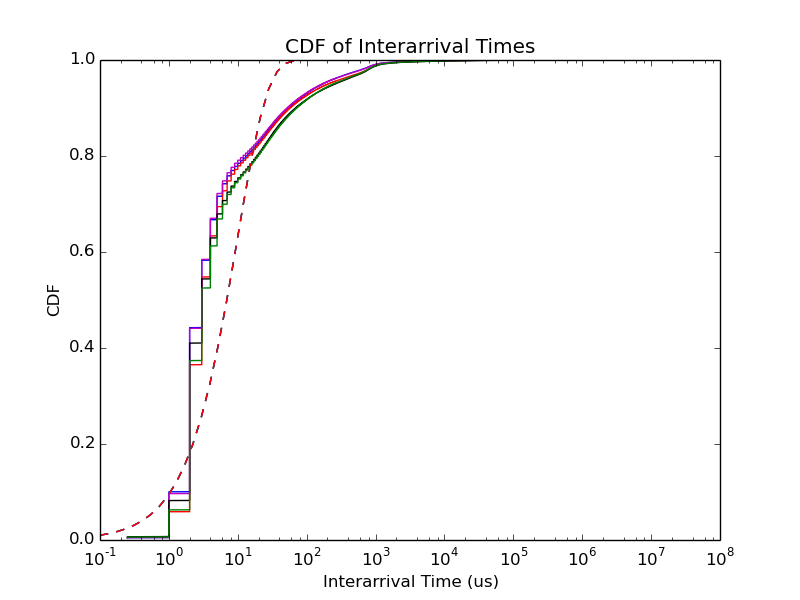
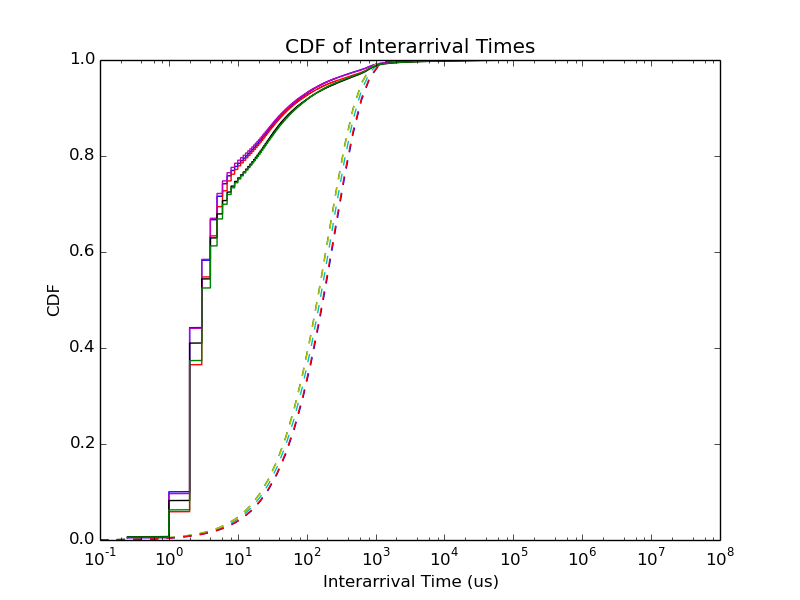
added new graphs for delta = 1000 flow combination

diff --git a/readFlowTrace.py b/readFlowTrace.py
@@ -107,8 +107,8 @@ def sourceInterarrival(flows, prefix = None):
         x, y = cdf(inters)
         plt.semilogx(x, y, label = str(s))
         cmp_x = np.logspace(-1, 5)
-        plt.semilogx(cmp_x, scipy.stats.expon.cdf(cmp_x, scale = 10), '--', label = 'Fitted Exponential')
-        print 'K-S Test', scipy.stats.kstest(x, lambda x: scipy.stats.expon.cdf(x, scale = 10))
+        plt.semilogx(cmp_x, scipy.stats.expon.cdf(cmp_x, scale = np.mean(x)), '--', label = 'Fitted Exponential')
+        print 'K-S Test', scipy.stats.kstest(x, lambda x: scipy.stats.expon.cdf(x, scale = np.mean(x)))
     plt.savefig(prefixName(prefix, 'comparefit_cdf_src_interarrivals.png'))
 
     plt.clf()
@@ -126,7 +126,7 @@ def sourceInterarrival(flows, prefix = None):
 
 def burstinessAnalysis(flows, prefix = None):
     flows.sort(key = lambda x: x['time'])
-    slotDuration = 1e3 # 1 ms = 1000 us slots
+    slotDuration = 1e5 # 100 ms = 1e5 us slots
 
     flowsByTime = [(k,list(f)) for k,f in itertools.groupby(flows, key = lambda i: i['time'] // slotDuration)]
     times, flowGroups = zip(*flowsByTime)
@@ -142,6 +142,15 @@ def burstinessAnalysis(flows, prefix = None):
     plt.ylabel('bps')
     plt.semilogy(xaxis, yaxis, 'b.')
     plt.savefig(prefixName(prefix, 'trafficvolume.png'))
+
+    plt.clf()
+    plt.title('CDF of Traffic Volume')
+    plt.xlabel('Traffic Volume, bps')
+    plt.ylabel('CDF')
+    plt.ylim(0,1)
+    x, y = cdf(yaxis)
+    plt.semilogx(x, y)
+    plt.savefig(prefixName(prefix, 'cdf_trafficvolume.png'))
 
 def KStesting(flows):
     flows.sort(key = lambda f:f['time'])
@@ -193,10 +202,10 @@ if __name__ == '__main__':
 
     print 'read', len(flows), 'flows'
 
-    flowSizes(flows, prefix = mode)
+#    flowSizes(flows, prefix = mode)
 #    sdAnalysis(flows)
     sourceInterarrival(flows, prefix = mode)
-    burstinessAnalysis(flows, prefix = mode)
+#    burstinessAnalysis(flows, prefix = mode)
 
     #outputSimulatorFriendly('sim_'+sys.argv[1], flows)
 

diff --git a/makeFlowTrace.py b/makeFlowTrace.py
@@ -181,9 +181,9 @@ def collapseFlows(flows):
                 grp = groups[found]
                 del groups[found]
                 grp.append(f)
-                groups[(f['addr'] + f['size'] / 4096, f['time'] + 10)] = grp
+                groups[(f['addr'] + f['size'] / 4096, f['time'] + 1000)] = grp
             else:
-                groups[(f['addr'] + f['size'] / 4096, f['time'] + 10)] = [f]
+                groups[(f['addr'] + f['size'] / 4096, f['time'] + 1000)] = [f]
         #yield remaining groups
         for grp in groups.values():
             yield grp

diff --git a/makeTraces.py b/makeTraces.py
@@ -1,0 +1,19 @@
+#!/usr/bin/python
+
+import sys
+import subprocess
+
+traces = ['wordcount', 'graphlab', 'terasort', 'memcached']
+template = 'bash -c "python makeFlowTrace.py results/{0}/{1}flows.txt traces/{0}/*"'
+
+flavor = ''
+if (len(sys.argv) > 1):
+    flavor = sys.argv[1] + '_'
+elif (len(sys.argv) > 2):
+    print 'Usage: python makeTraces.py <optional thing to prepend to flow file name>'
+    sys.exit(1)
+
+for trace in traces:
+    print template.format(trace, flavor)
+    subprocess.call(template.format(trace, flavor), shell=True)
+

diff --git a/results/memcached/Readme.md b/results/memcached/Readme.md
@@ -3,22 +3,37 @@ Flow Sizes
 
 Memory Only
 -----------
-![Memory Only](./memflowsizes_cdf.png)
+
+Uncombined                            | Combined
+--------------------------------------|----------------------------------------------
+![Memory Only](./memflowsizes_cdf.png)|![Memory Only](./combined_memflowsizes_cdf.png)
 
 Disk Only
 ---------
-![Disk Only](./diskflowsizes_cdf.png)
+
+Uncombined                            | Combined
+--------------------------------------|----------------------------------------------
+![Disk Only](./diskflowsizes_cdf.png) |![Disk Only](./combined_diskflowsizes_cdf.png)
 
 All Flows
 ---------
-![All flows](./allflowsizes_cdf.png)
+
+Uncombined                            | Combined
+--------------------------------------|----------------------------------------------
+![All](./allflowsizes_cdf.png)        |![All](./combined_allflowsizes_cdf.png)
 
 Interarrivals
 =============
-![Interarrival CDF Per Source](./comparefit_cdf_src_interarrivals.png)
-![PDF of Interarrival Times](./pdf_src_interarrivals.png)
+
+Uncombined                                                            | Combined
+----------------------------------------------------------------------|--------------------------------------------------------------------------------
+![Interarrival CDF Per Source](./comparefit_cdf_src_interarrivals.png)| ![Interarrival CDF Per Source](./combined_comparefit_cdf_src_interarrivals.png)
+![PDF of Interarrival Times](./pdf_src_interarrivals.png)             | ![PDF of Interarrival Times](./combined_pdf_src_interarrivals.png)
 
 Traffic Volume
 ==============
-![Traffic Volume in 1ms measurement increments](./trafficvolume.png)
+
+Uncombined                                                            | Combined
+----------------------------------------------------------------------|--------------------------------------------------------------------------------
+![Traffic Volume in 1ms measurement increments](./trafficvolume.png)  | ![Traffic Volume in 1ms measurement increments](./combined_trafficvolume.png)
 
